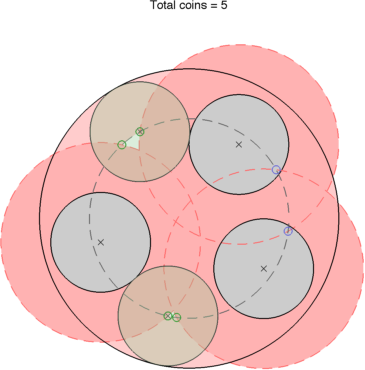
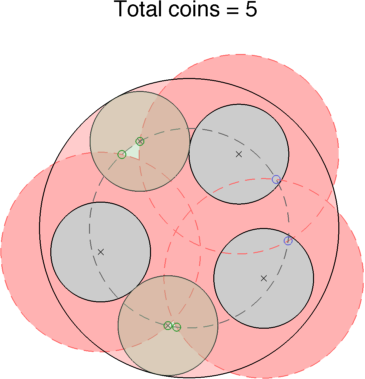
better images

diff --git a/coins_plot.m b/coins_plot.m
@@ -160,8 +160,8 @@ while 1,                                    %- until forever...
     plot([pts1, pts2], 'o', 'color', [.4 .4 .85], 'markersize', 8);
     plot(possiblecc, 'o', 'color', [0 .5 0], 'markersize', 8);
     plot(cc, 'x', 'color', .2*[1 1 1], 'markersize', 8)
-    %title(['Trial #' num2str(trialnum) '. Total coins = ' num2str(count)]);
-    title(['Total coins = ' num2str(count)]);
+    title(['Trial #' num2str(trialnum) '. Total coins = ' num2str(count) ' '], ...
+        'fontsize', 16);
     axis equal;
     axis(4*[-1 1 -1 1]);
     axis off;

diff --git a/README.md b/README.md
@@ -8,11 +8,11 @@ Algorithm brief
 
 The algorithm works purely geometrically. The problem is small enough to work in a case-by-case basis: in fact, there are only five different situations important to us, which are easiest to convey by image:
 
-![3 coins](/img/c3.png)
-![4 coins (a)](/img/c4a.png)
-![4 coins (b)](/img/c4b.png)
-![5 coins (a)](/img/c5a.png)
-![5 coins (b)](/img/c5b.png)
+<img src='/img/c3.png' width='150px' />
+<img src='/img/c4a.png' width='150px' />
+<img src='/img/c4b.png' width='150px' />
+<img src='/img/c5a.png' width='150px' />
+<img src='/img/c5b.png' width='150px' />
 
 Results
 -------
